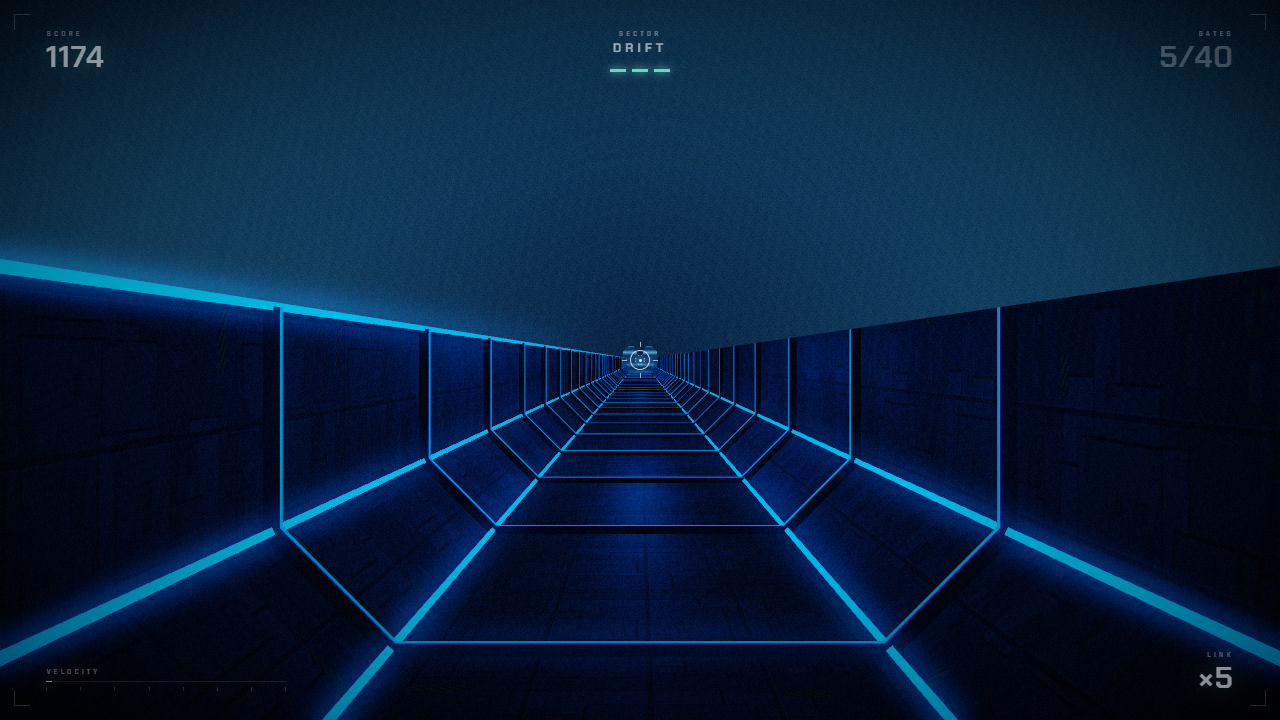
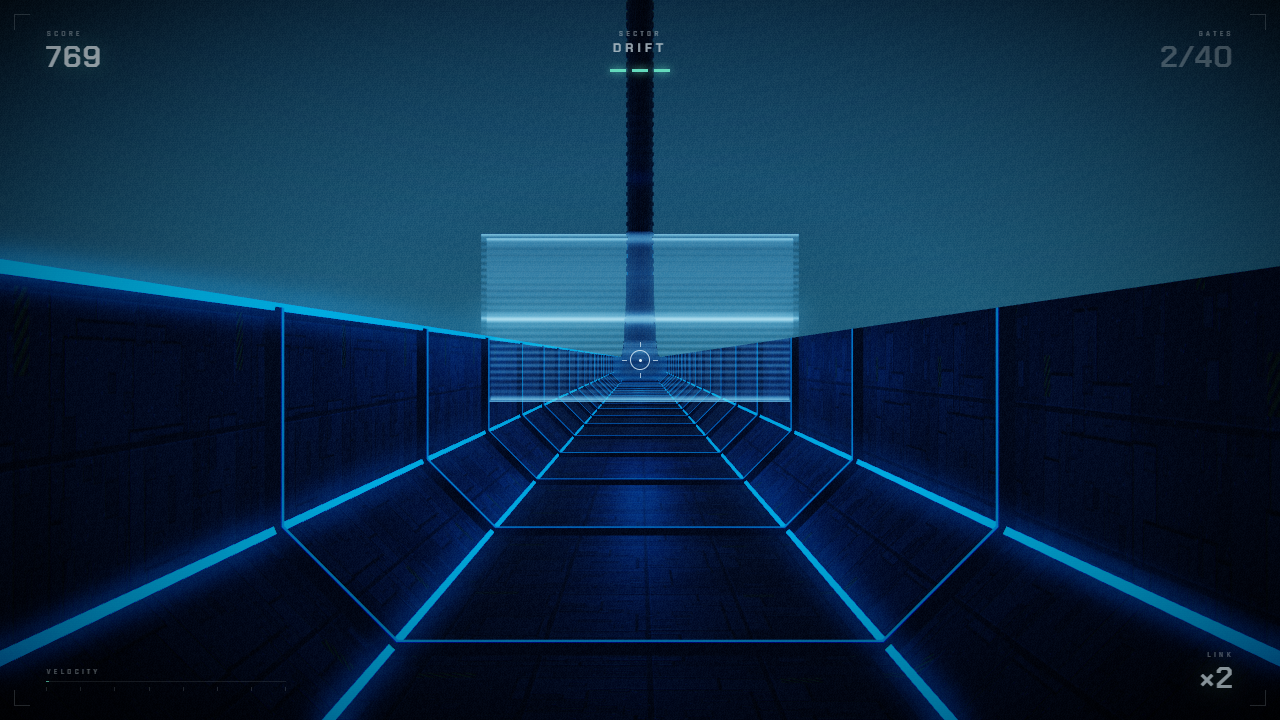
feat(vol2): shutter glass — three bands, one open
DRIFT no longer threads radial wedges. Its bulkheads are horizontal slats split
into three bands; exactly one band is missing, and being in the right band is the
whole test.

- laneOf / lanePoint / laneCount abstract the addressing: iris counts eight
  sectors around the hub, shutter counts three height bands. Judgement, scoring,
  the auto-align bot and the reticle lock all go through them, so a volume swaps
  its obstacle style without touching the game loop
- the shader branches on uStyle into a slat field with a bright lip at every
  band edge and a slow vertical drift

diff --git a/js/gates.js b/js/gates.js
@@ -1,5 +1,6 @@
 import * as THREE from 'three';
-import { TUNNEL } from './tunnel.js?v=2026-11-10a';
+import { TUNNEL } from './tunnel.js?v=2026-11-10b';
+import { VOL } from './volumes.js?v=2026-11-10b';
 
 /* ------------------------------------------------------------------ *
  *  A bulkhead is not a sheet with a hole in it — it is a set of glass
@@ -21,6 +22,30 @@ export const WALL = {
 export const THICKNESS = 0.38;
 export const HUB_R = 1.02;
 export const SECTORS = 8;
+
+/* ---- lanes: how the gap is addressed depends on the glass style ---- */
+
+export function laneCount() {
+  return VOL.obstacle === 'shutter' ? 3 : SECTORS;
+}
+
+/** which lane a point sits in */
+export function laneOf(x, y) {
+  if (VOL.obstacle === 'shutter') {
+    const t = (y / TUNNEL.b) * 0.5 + 0.5;
+    return Math.min(2, Math.max(0, Math.floor(t * 3)));
+  }
+  return sectorOf(x, y);
+}
+
+/** middle of a lane, for the bot and for scoring */
+export function lanePoint(idx) {
+  if (VOL.obstacle === 'shutter') {
+    const t = (idx + 0.5) / 3;
+    return [0, (t * 2 - 1) * TUNNEL.b];
+  }
+  return sectorPoint(idx);
+}
 
 /** world position at the middle of a sector's through-gap */
 export function sectorPoint(s, radius = 2.15) {
@@ -61,6 +86,7 @@ uniform float uFade;
 uniform vec3  uHull;
 uniform vec2  uSize;
 uniform float uHub;
+uniform float uStyle;
 
 const float PI = 3.14159265;
 const float TAU = 6.28318531;
@@ -70,6 +96,32 @@ float hash(float x){ return fract(sin(x * 127.1) * 43758.5453); }
 
 void main(){
   if (vDepth < 0.5) discard;
+
+  /* ---- shutter glass: three horizontal bands, one of them open ---- */
+  if (uStyle > 0.5) {
+    float t = vUv.y;
+    float b = t * 3.0;
+    int band = int(floor(b));
+    if (abs(float(band) - uOpen) < 0.5) discard;
+
+    float f = fract(b);
+    float edge = min(f, 1.0 - f);
+
+    float slat = 0.5 + 0.5 * sin(t * 240.0 - uTime * 6.0);
+    float bandTone = 0.5 + 0.5 * sin(t * 18.0 + uTime * 1.1);
+    float rimT = exp(-edge * 24.0);
+
+    vec3 glass = uColor * (0.42 + 0.65 * slat) * (0.55 + 0.7 * bandTone);
+    glass *= mix(0.6, 1.25, t);
+    vec3 col = glass + uColor * rimT * 1.5;
+
+    float a = 0.08 + 0.065 * slat + rimT * 0.5;
+    a *= uFade;
+    if (vDepth < 4.0) a *= smoothstep(4.0, 10.0, vDepth);
+
+    gl_FragColor = vec4(col, clamp(a, 0.0, 1.0));
+    return;
+  }
 
   vec2 p = (vUv - 0.5) * uSize;
 
@@ -157,7 +209,8 @@ const GEO = new THREE.PlaneGeometry(WALL.w, WALL.h);
  * ------------------------------------------------------------------ */
 export class Gate {
   constructor(sector, time) {
-    this.open = ((sector | 0) % SECTORS + SECTORS) % SECTORS;
+    const lanes = laneCount();
+    this.open = (((sector | 0) % lanes) + lanes) % lanes;
     this.dBeats = 0;
     this.d = 0;
     this.spawnT = time;
@@ -176,6 +229,7 @@ export class Gate {
         uHull: { value: new THREE.Vector3(TUNNEL.a, TUNNEL.b, TUNNEL.ch) },
         uSize: { value: new THREE.Vector2(WALL.w, WALL.h) },
         uHub: { value: HUB_R },
+        uStyle: { value: VOL.obstacle === 'shutter' ? 1 : 0 },
       },
       transparent: true,
       blending: THREE.AdditiveBlending,

diff --git a/js/main.js b/js/main.js
@@ -1,13 +1,13 @@
 import * as THREE from 'three';
-import { buildTextures } from './textures.js?v=2026-11-10a';
-import { Tunnel, TUNNEL } from './tunnel.js?v=2026-11-10a';
-import { buildPath } from './path.js?v=2026-11-10a';
-import { Gates, sectorOf, sectorPoint } from './gates.js?v=2026-11-10a';
-import { PostFX } from './post.js?v=2026-11-10a';
-import { AudioEngine } from './audio.js?v=2026-11-10a';
-import { chartFor, DIFFICULTY, SONG_BEATS } from './chart.js?v=2026-11-10a';
-import { VOL } from './volumes.js?v=2026-11-10a';
-import { Recorder } from './recorder.js?v=2026-11-10a';
+import { buildTextures } from './textures.js?v=2026-11-10b';
+import { Tunnel, TUNNEL } from './tunnel.js?v=2026-11-10b';
+import { buildPath } from './path.js?v=2026-11-10b';
+import { Gates, laneOf, lanePoint } from './gates.js?v=2026-11-10b';
+import { PostFX } from './post.js?v=2026-11-10b';
+import { AudioEngine } from './audio.js?v=2026-11-10b';
+import { chartFor, DIFFICULTY, SONG_BEATS } from './chart.js?v=2026-11-10b';
+import { VOL } from './volumes.js?v=2026-11-10b';
+import { Recorder } from './recorder.js?v=2026-11-10b';
 
 /* ------------------------------------------------------------------ *
  *  Boot flags
@@ -602,7 +602,7 @@ function step(dt) {
     let best = null;
     for (const g of gates.list) if (!g.passed && (!best || g.d < best.d)) best = g;
     if (best) {
-      const [hx, hy] = sectorPoint(best.open);
+      const [hx, hy] = lanePoint(best.open);
       CAM.tx = hx;
       CAM.ty = hy;
     }
@@ -666,14 +666,11 @@ function step(dt) {
     for (const g of prevBeatGate) {
       if (!g.passed && g.dBeats <= 0) {
         g.passed = true;
-        const sec = sectorOf(CAM.x, CAM.y);
+        const sec = laneOf(CAM.x, CAM.y);
 
         if (sec === g.open || GOD) {
-          const ang = Math.atan2(CAM.y, CAM.x);
-          let da = Math.abs(ang - g.open * Math.PI / 4);
-          da = Math.abs(((da % (Math.PI * 2)) + Math.PI * 2) % (Math.PI * 2));
-          if (da > Math.PI) da = Math.PI * 2 - da;
-          const off = da / (Math.PI / 8);
+          const [lx, ly] = lanePoint(g.open);
+          const off = Math.min(1, Math.hypot(CAM.x - lx, CAM.y - ly) / 2.2);
 
           G.gatesPassed++;
           G.combo = Math.min(50, G.combo + 1);
@@ -710,7 +707,7 @@ function step(dt) {
   let locked = false;
   for (const g of gates.list) {
     if (g.d > 3 && g.d < 34) {
-      if (sectorOf(CAM.x, CAM.y) === g.open) locked = true;
+      if (laneOf(CAM.x, CAM.y) === g.open) locked = true;
       break;
     }
   }

diff --git a/js/chart.js b/js/chart.js
@@ -9,7 +9,7 @@
  *      0 E   1 NE   2 N   3 NW   4 W   5 SW   6 S   7 SE
  * ------------------------------------------------------------------ */
 
-import { VOL } from './volumes.js?v=2026-11-10a';
+import { VOL } from './volumes.js?v=2026-11-10b';
 
 export const SONG_BEATS = VOL.beats;
 export const BPM = VOL.bpm;

diff --git a/js/audio.js b/js/audio.js
@@ -6,7 +6,7 @@
  *  from the audio clock so the visuals lock to the beat.
  * ------------------------------------------------------------------ */
 
-import { VOL } from './volumes.js?v=2026-11-10a';
+import { VOL } from './volumes.js?v=2026-11-10b';
 
 const BPM = VOL.bpm;
 const STEPS_PER_BAR = 16;
